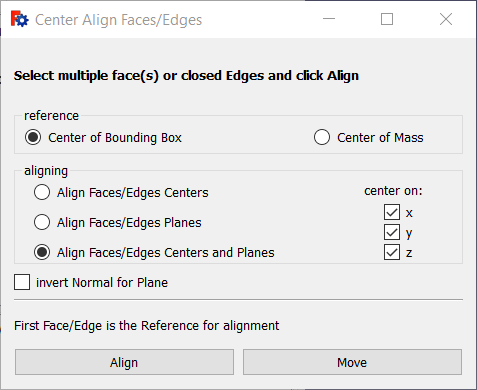
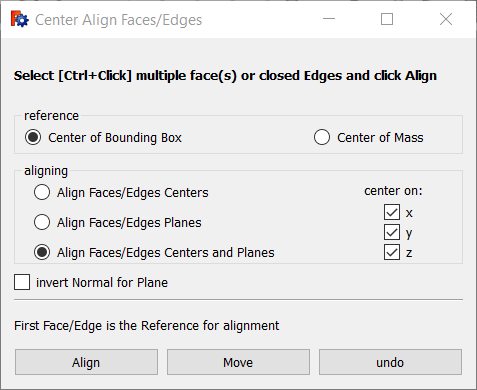
v0.37 added Undo button

diff --git a/Align Objects/CenterAlignObjectswFacesEdges.py b/Align Objects/CenterAlignObjectswFacesEdges.py
@@ -10,7 +10,7 @@
 __title__   = "Center Faces of Parts"
 __author__  = "maurice"
 __url__     = "kicad stepup"
-__version__ = "0.36"
+__version__ = "0.37"
 __date__    = "09.2017"
 
 ## todo 
@@ -30,10 +30,11 @@ __date__    = "09.2017"
 import FreeCAD, FreeCADGui, Draft, Part, DraftTools
 from FreeCAD import Base
 import sys
+testing=True #true for showing helpers
 
 # Form implementation generated from reading ui file 'C:\Cad\Progetti_K\3D-FreeCad-tools\CenterAlignObjectswFacesEdges.ui'
 #
-# Created: Sun Jan 08 17:23:54 2017
+# Created: Wed Sep 13 22:20:26 2017
 #      by: pyside-uic 0.2.15 running on PySide 1.2.2
 #
 # WARNING! All changes made in this file will be lost!
@@ -123,6 +124,9 @@ class Ui_CenterAlignObjectsFacesEdges(object):
         self.btnMove = QtGui.QPushButton(CenterAlignObjectsFacesEdges)
         self.btnMove.setObjectName("btnMove")
         self.hLayout1.addWidget(self.btnMove)
+        self.btnUndoMove = QtGui.QPushButton(CenterAlignObjectsFacesEdges)
+        self.btnUndoMove.setObjectName("btnUndoMove")
+        self.hLayout1.addWidget(self.btnUndoMove)
         self.verticalLayout_3.addLayout(self.hLayout1)
         self.verticalLayout.addLayout(self.verticalLayout_3)
 
@@ -131,7 +135,7 @@ class Ui_CenterAlignObjectsFacesEdges(object):
 
     def retranslateUi(self, CenterAlignObjectsFacesEdges):
         CenterAlignObjectsFacesEdges.setWindowTitle(QtGui.QApplication.translate("CenterAlignObjectsFacesEdges", "Center Align Faces/Edges", None, QtGui.QApplication.UnicodeUTF8))
-        self.lbl_info.setText(QtGui.QApplication.translate("CenterAlignObjectsFacesEdges", "Select [Ctrl+click] multiple face(s) or closed Edges and click Align", None, QtGui.QApplication.UnicodeUTF8))
+        self.lbl_info.setText(QtGui.QApplication.translate("CenterAlignObjectsFacesEdges", "<html><head/><body><p>Select [Ctrl+Click] multiple face(s) or closed Edges and click Align</p></body></html>", None, QtGui.QApplication.UnicodeUTF8))
         self.groupBox.setTitle(QtGui.QApplication.translate("CenterAlignObjectsFacesEdges", "reference", None, QtGui.QApplication.UnicodeUTF8))
         self.rb_bb.setText(QtGui.QApplication.translate("CenterAlignObjectsFacesEdges", "Center of Bounding Box", None, QtGui.QApplication.UnicodeUTF8))
         self.rb_mass.setText(QtGui.QApplication.translate("CenterAlignObjectsFacesEdges", "Center of Mass", None, QtGui.QApplication.UnicodeUTF8))
@@ -145,14 +149,19 @@ class Ui_CenterAlignObjectsFacesEdges(object):
         self.label_2.setText(QtGui.QApplication.translate("CenterAlignObjectsFacesEdges", "center on:", None, QtGui.QApplication.UnicodeUTF8))
         self.cb_inv_normals.setText(QtGui.QApplication.translate("CenterAlignObjectsFacesEdges", "invert Normal for Plane", None, QtGui.QApplication.UnicodeUTF8))
         self.label.setText(QtGui.QApplication.translate("CenterAlignObjectsFacesEdges", "First Face/Edge is the Reference for alignment", None, QtGui.QApplication.UnicodeUTF8))
+        self.btnAlign.setToolTip(QtGui.QApplication.translate("CenterAlignObjectsFacesEdges", "select Faces or Edges (Ctrl+LBM) and click button to Apply", None, QtGui.QApplication.UnicodeUTF8))
         self.btnAlign.setText(QtGui.QApplication.translate("CenterAlignObjectsFacesEdges", "Align", None, QtGui.QApplication.UnicodeUTF8))
+        self.btnMove.setToolTip(QtGui.QApplication.translate("CenterAlignObjectsFacesEdges", "select an Object and click button to Move it", None, QtGui.QApplication.UnicodeUTF8))
         self.btnMove.setText(QtGui.QApplication.translate("CenterAlignObjectsFacesEdges", "Move", None, QtGui.QApplication.UnicodeUTF8))
+        self.btnUndoMove.setToolTip(QtGui.QApplication.translate("CenterAlignObjectsFacesEdges", "select Faces / Edges and click to show Normals", None, QtGui.QApplication.UnicodeUTF8))
+        self.btnUndoMove.setText(QtGui.QApplication.translate("CenterAlignObjectsFacesEdges", "undo", None, QtGui.QApplication.UnicodeUTF8))
 
 ### ------------------------------------------------------------------------------------ ###
 ### ---------code to be inserted and remove from new generation------------------------- ###
 ### ------------------------------------------------------------------------------------ ###
         self.btnAlign.clicked.connect(self.onAlign)
         self.btnMove.clicked.connect(self.onMove)
+        self.btnUndoMove.clicked.connect(self.onUndo)
         
     def onAlign(self):
         say("Align clicked")
@@ -186,7 +195,17 @@ class Ui_CenterAlignObjectsFacesEdges(object):
         say("Move clicked")
         Move()
         say("Move clicked2")
-        
+
+    def onUndo(self):
+        say("Undo clicked")
+        Undo()
+        say("Undo clicked2")
+
+##############################################################
+global initial_placement, last_selection
+
+initial_placement = FreeCAD.Placement(App.Vector(0,0,0), App.Rotation(0,0,0), App.Vector(0,0,0)) #Placement [Pos=(0,0,0), Yaw-Pitch-Roll=(0,0,0)]
+last_selection = []      
 def say(msg):
     FreeCAD.Console.PrintMessage(msg)
     FreeCAD.Console.PrintMessage('\n')
@@ -260,6 +279,7 @@ CenterAlignObjectsFacesEdges.show()
 
 #center(CenterAlignObjectsFacesEdges)
 CenterAlignObjectsFacesEdges.move(10,100)
+##CenterAlignObjectsFacesEdges.move(500,100)
 ## to do:
 ## ok single instance
 ## - always on top
@@ -269,19 +289,37 @@ CenterAlignObjectsFacesEdges.move(10,100)
 ### ------------------------------------------------------------------------------------ ###
 
 
+def Undo():
+    say('Undo')
+    global initial_placement, last_selection
+    say ('last selection' + str(last_selection))
+    if len(last_selection) == 1:
+        obj = last_selection[0].Object
+        obj.Placement.Base =initial_placement
+    
+    
 def Move():
+    global initial_placement, last_selection
+
     say('Move')
     selection = [s for s in FreeCADGui.Selection.getSelectionEx() if s.Document == FreeCAD.ActiveDocument ]
     if len(selection) == 1:
+        last_selection = selection
         say('Move2')
         PartMover( FreeCADGui.activeDocument().activeView(), selection[0].Object )
+        say('starting '+str(initial_placement))
     else:
         PartMoverSelectionObserver()
 
 class PartMover:
+    global initial_placement
+    
     def __init__(self, view, obj):
+        global initial_placement
         self.obj = obj
-        self.initialPostion = self.obj.Placement.Base
+        self.initialPosition = self.obj.Placement.Base
+        initial_placement = self.initialPosition
+        sayw('init '+str(initial_placement))
         self.copiedObject = False
         self.view = view
         self.callbackMove = self.view.addEventCallback("SoLocation2Event",self.moveMouse)
@@ -296,9 +334,12 @@ class PartMover:
         self.view.removeEventCallback("SoMouseButtonEvent",self.callbackClick)
         self.view.removeEventCallback("SoKeyboardEvent",self.callbackKey)
     def clickMouse(self, info):
+        global initial_placement
         # debugPrint(4, 'clickMouse info %s' % str(info))
         if info['Button'] == 'BUTTON1' and info['State'] == 'DOWN':
             if not info['ShiftDown'] and not info['CtrlDown']:
+                say('releasing obj')
+                sayw('releasing '+ str( initial_placement ))
                 self.removeCallbacks()
             elif info['ShiftDown']: #copy object
                 self.obj = duplicateImportedPart( self.obj )
@@ -314,7 +355,7 @@ class PartMover:
         # debugPrint(4, 'KeyboardEvent info %s' % str(info))
         if info['State'] == 'UP' and info['Key'] == 'ESCAPE':
             if not self.copiedObject:
-                self.obj.Placement.Base = self.initialPostion
+                self.obj.Placement.Base = self.initialPosition
             else:
                 FreeCAD.ActiveDocument.removeObject(self.obj.Name)
             self.removeCallbacks()
@@ -712,7 +753,8 @@ def Align(normal,type,mode,cx,cy,cz):
             if str(fc.SubObjects[0])[1:5] != "Face":
                 wire = Part.Wire(selectedEdge)
                 fw = Part.Face(wire)
-                #Part.show(fw)
+                if testing:
+                    Part.show(fw)
                 f=FreeCAD.ActiveDocument.addObject("Part::Feature","Facebinder")
                 f.Shape=fw 
                 pad=1

diff --git a/Align Objects/README.md b/Align Objects/README.md
@@ -1,3 +1,6 @@
 # FreeCAD_Macros
 FreeCAD_Macros
 This repo is containing some useful FreeCAD Macros
+
+- Center Align Objects w Faces Edges 
+  - v0.37 added Undo button
